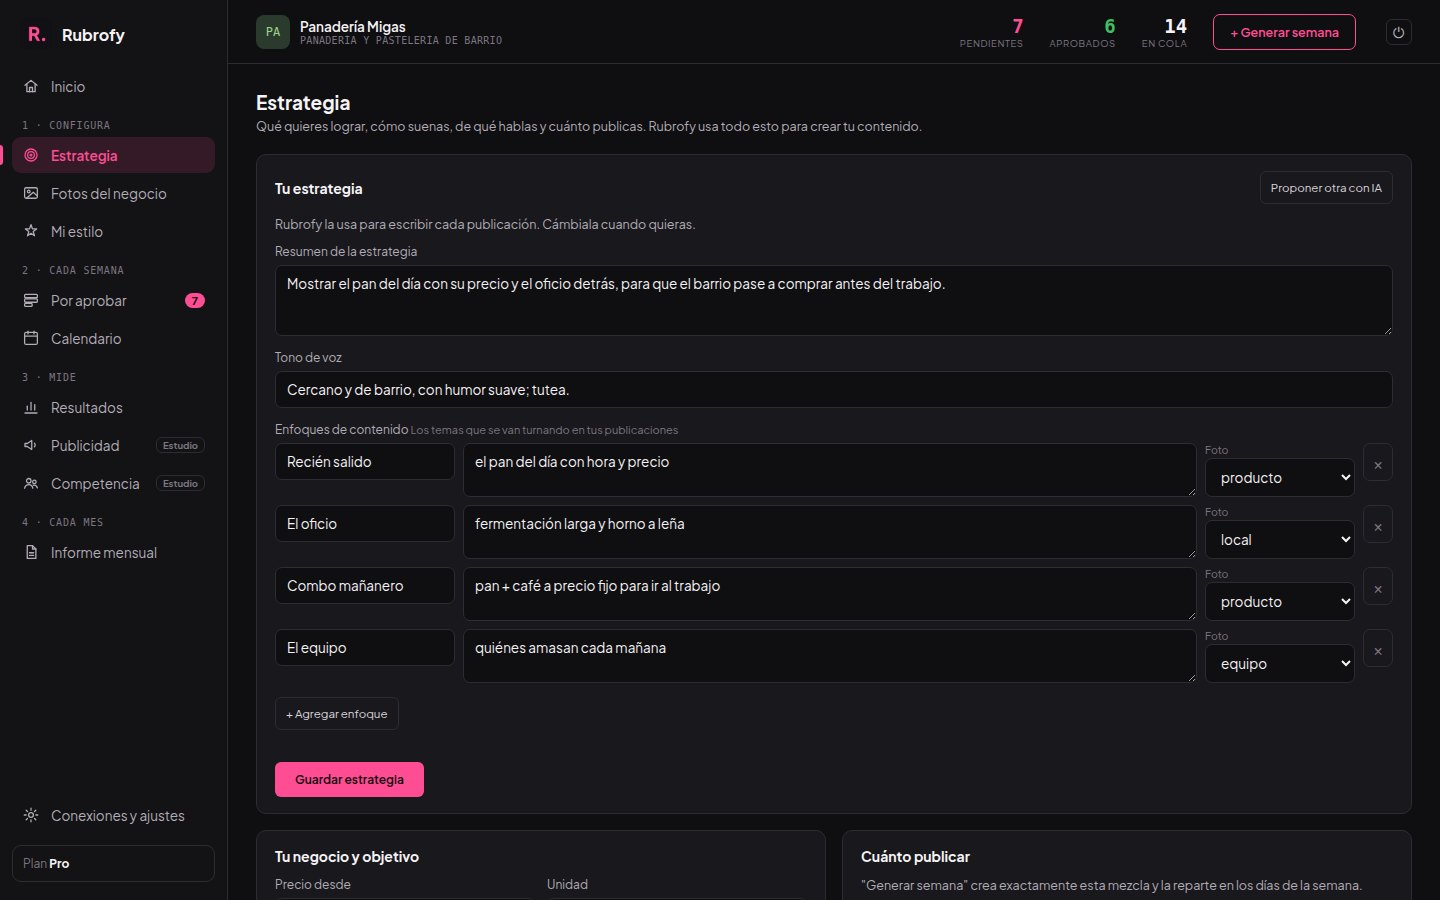
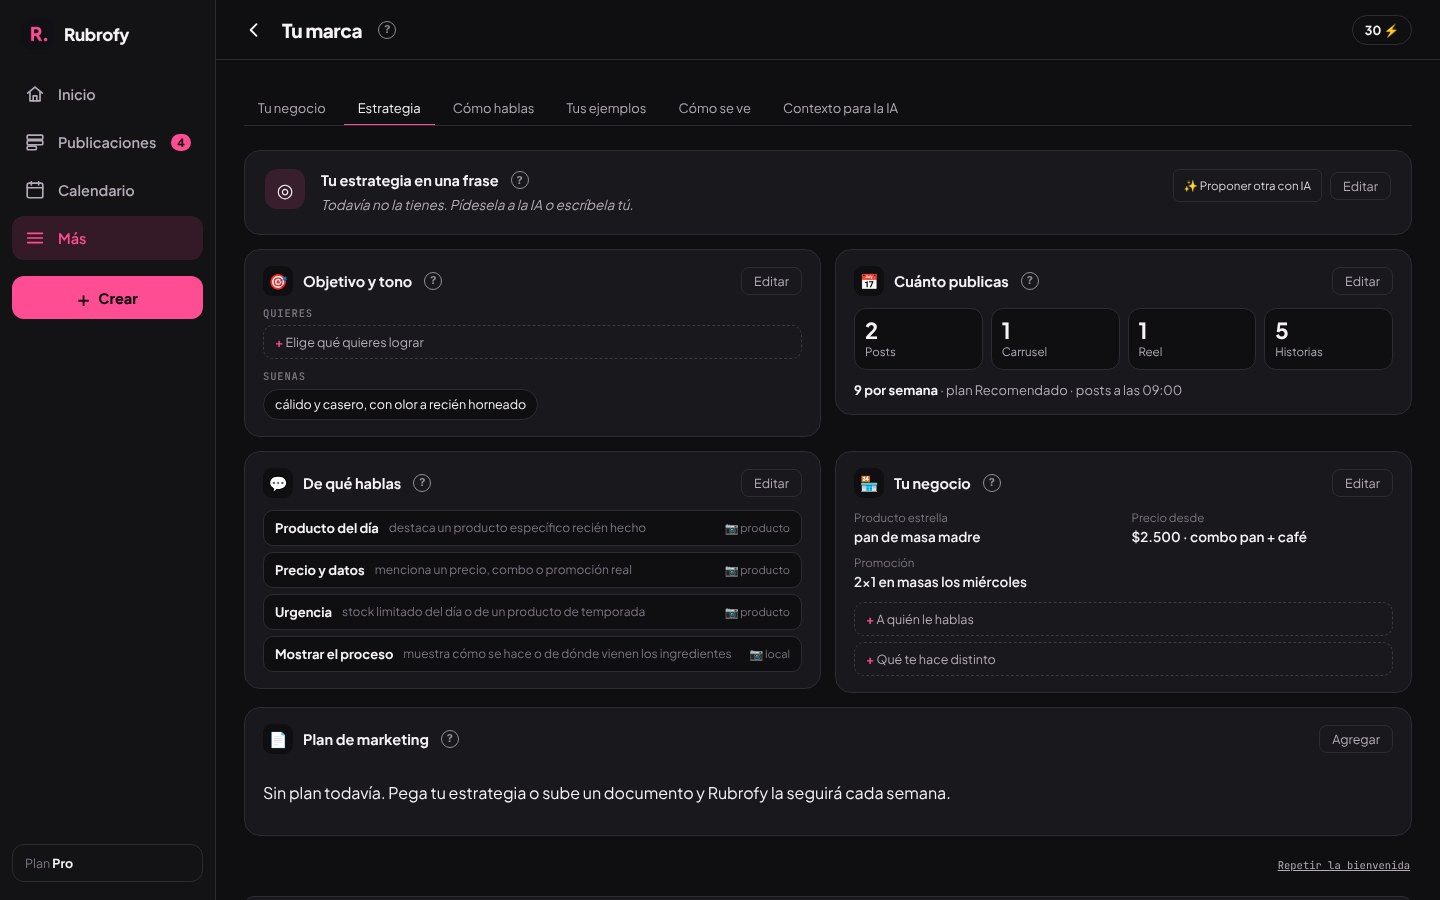
Rubrofy: la portada muestra capturas del panel nuevo
Las imágenes del producto en la portada eran del panel anterior. Ahora
son capturas reales del panel actual con el negocio de ejemplo:
Publicaciones arriba, el selector de fotos del carrusel en "Tú
apruebas", y Estrategia, Calendario y Resultados en sus secciones. El
paso 2 muestra la tarjeta en el teléfono con Aprobar y el menú de abajo,
y la imagen para compartir el enlace usa la misma captura.

Claude-Session: https://claude.ai/code/session_01X5rUaWA1XCwMsFgBMUN4aR

diff --git a/rubrofy/public/site/index.html b/rubrofy/public/site/index.html
@@ -13,7 +13,7 @@
   <meta property="og:url" content="https://rubrofy.com/">
   <meta property="og:title" content="Rubrofy — Tu Instagram listo cada semana, escrito con tu voz">
   <meta property="og:description" content="Posts, carruseles, reels e historias con gancho, texto y hashtags, escritos con tu voz. Se publican cuando los apruebas. Prueba 7 días gratis.">
-  <meta property="og:image" content="https://rubrofy.com/img/og.jpg">
+  <meta property="og:image" content="https://rubrofy.com/img/og.jpg?v=2">
   <meta property="og:image:width" content="1200">
   <meta property="og:image:height" content="630">
   <meta name="twitter:card" content="summary_large_image">
@@ -53,7 +53,7 @@
       </div>
       <div class="wrap hero-captura">
         <figure class="captura">
-          <img src="/img/panel-inicio.jpg" width="1440" height="900" alt="Inicio del panel de Rubrofy: qué hacer ahora, la ruta en cuatro etapas y las próximas publicaciones">
+          <img src="/img/panel-publicaciones.jpg" width="1440" height="900" alt="Publicaciones en el panel de Rubrofy: cada publicación con su foto, su fecha, su texto y el botón Aprobar">
         </figure>
       </div>
     </section>
@@ -91,13 +91,13 @@
             <ul class="t-chips"><li>Tu perfil</li><li>Tu voz</li><li>Tu estrategia</li></ul>
           </div>
           <div class="tarjeta t-negra">
-            <div class="t-foto t-cel"><img src="/img/pasos/paso-2.jpg?v=2" width="600" height="641" alt="Pantalla real de Rubrofy en el celular: una publicación de pan de masa madre por aprobar" loading="lazy"></div>
+            <div class="t-foto t-cel"><img src="/img/pasos/paso-2.jpg?v=3" width="780" height="744" alt="Pantalla real de Rubrofy en el celular: una publicación de pan de masa madre con el botón Aprobar" loading="lazy"></div>
             <div class="t-cab"><h3><span class="t-num">2</span>Aprueba tu semana</h3></div>
             <p><b>Cada semana llega tu contenido listo:</b> posts, carruseles, reels e historias. Apruebas, editas o pides un cambio. Nada sale sin tu OK.</p>
             <div class="t-estados"><span class="e-ok">Aprobada · Reel</span><span class="e-prog">Por aprobar · Carrusel</span></div>
           </div>
           <div class="tarjeta t-clara">
-            <div class="t-foto t-pantalla"><img src="/img/pasos/paso-3.jpg" width="766" height="479" alt="Pantalla real de Resultados en Rubrofy: seguidores, alcance, interacciones y gráficos diarios" loading="lazy"></div>
+            <div class="t-foto t-pantalla"><img src="/img/pasos/paso-3.jpg?v=2" width="766" height="479" alt="Pantalla real de Resultados en Rubrofy: seguidores, alcance, interacciones y gráficos diarios" loading="lazy"></div>
             <div class="t-cab"><h3><span class="t-num">3</span>Se publica y aprende</h3></div>
             <p><b>Sale sola a Instagram</b> en su día y hora. Rubrofy mide qué funcionó y escribe mejor la semana siguiente.</p>
           </div>
@@ -249,7 +249,7 @@
           <p>Con lo que le cuentas y lo que ya publicabas, Rubrofy arma tu estrategia: el tono, los temas que se van turnando y cuántos posts, carruseles, reels e historias publicar por semana.</p>
           <ul class="checks"><li>Objetivo, público y tono</li><li>"Mi estilo": importa tus publicaciones y aprende de ellas</li><li>Le dejas indicaciones que sigue siempre ("los reels, cortos y con música")</li></ul>
         </div>
-        <figure class="func-img fondo-rosa"><img src="/img/panel-estrategia.jpg" width="1440" height="900" alt="Vista Estrategia: resumen, tono y enfoques de contenido editables" loading="lazy"></figure>
+        <figure class="func-img fondo-rosa"><img src="/img/panel-estrategia.jpg?v=2" width="1440" height="900" alt="Estrategia en Tu marca: objetivo y tono, cuánto publicas y de qué hablas" loading="lazy"></figure>
       </div>
     </section>
 
@@ -260,7 +260,7 @@
           <p>Tu semana llega en una cola: cada pieza con su gancho, texto, hashtags, idea y puntaje de voz. Apruebas, editas, pides otra versión o un cambio puntual como "más corto" o "menciona el despacho". En un carrusel eliges varias fotos y el orden en que salen.</p>
           <ul class="checks"><li>Alertas si algo no está en tus datos</li><li>Foto o video con IA desde la misma tarjeta, con créditos ⚡</li><li>Aprueba desde el celular, con avisos</li></ul>
         </div>
-        <figure class="func-img fondo-gris"><img src="/img/panel-cola.jpg" width="1440" height="900" alt="Cola de aprobación con publicaciones aprobadas y pendientes" loading="lazy"></figure>
+        <figure class="func-img fondo-gris"><img src="/img/panel-carrusel.jpg" width="1440" height="900" alt="Fotos del carrusel: varias fotos elegidas y numeradas en el orden en que salen" loading="lazy"></figure>
       </div>
     </section>
 
@@ -271,7 +271,7 @@
           <p>Lo que apruebas queda en su día y hora y sale solo a Instagram, a la hora en que más te funciona. Si algo falla, reintenta y te avisa.</p>
           <ul class="checks"><li>Posts, carruseles, reels e historias</li><li>Publica ahora cuando no quieras esperar</li><li>Resumen por correo cada lunes</li></ul>
         </div>
-        <figure class="func-img fondo-rosa"><img src="/img/panel-calendario.jpg" width="1440" height="900" alt="Calendario del mes con las publicaciones programadas" loading="lazy"></figure>
+        <figure class="func-img fondo-rosa"><img src="/img/panel-calendario.jpg?v=2" width="1440" height="900" alt="Calendario del mes con las publicaciones programadas" loading="lazy"></figure>
       </div>
     </section>
 
@@ -282,7 +282,7 @@
           <p>Alcance, interacciones y seguidores, qué temas rinden más y a qué hora te conviene publicar. Cada mes, un informe listo para imprimir o compartir con un enlace, con una conclusión escrita.</p>
           <ul class="checks"><li>Mejor horario según tu público</li><li>Reels de prueba de tus mejores reels</li><li>Informe mensual para compartir</li></ul>
         </div>
-        <figure class="func-img fondo-gris"><img src="/img/panel-resultados.jpg?v=2" width="1440" height="900" alt="Resultados de Instagram: seguidores, alcance, interacciones y mejor horario" loading="lazy"></figure>
+        <figure class="func-img fondo-gris"><img src="/img/panel-resultados.jpg?v=3" width="1440" height="900" alt="Resultados de Instagram: seguidores, alcance, interacciones y mejor horario" loading="lazy"></figure>
       </div>
     </section>
 
